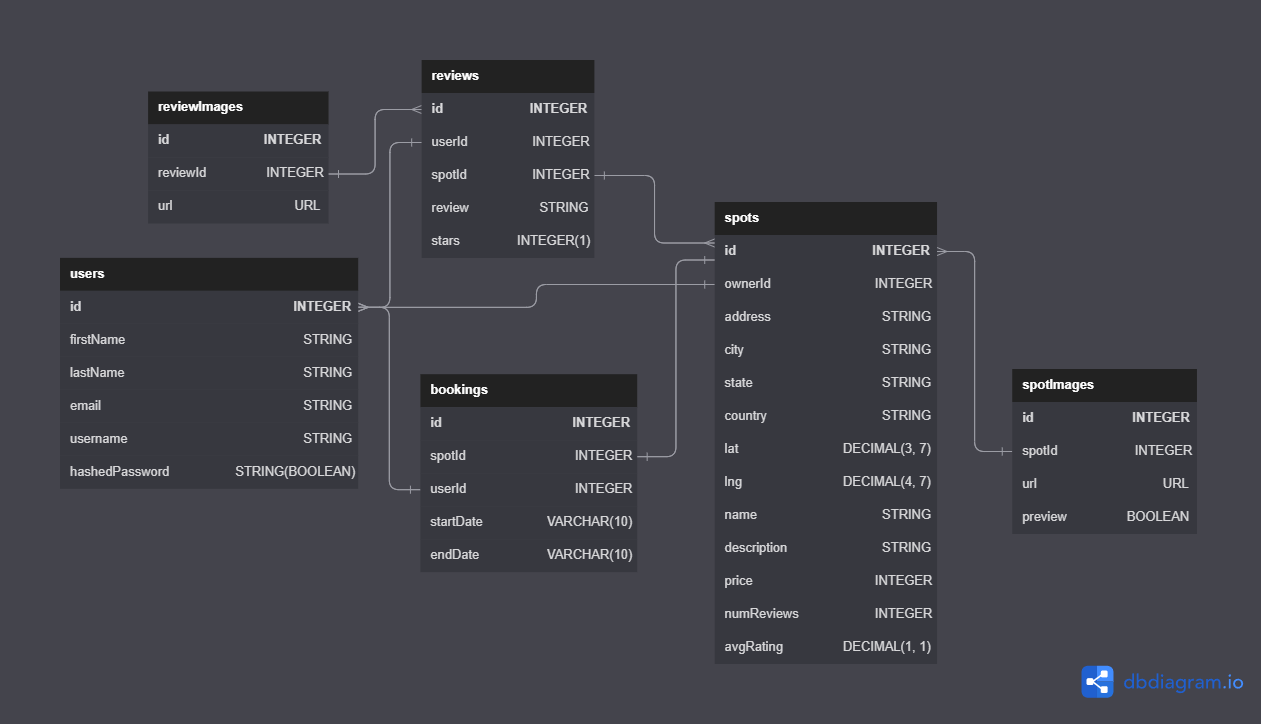
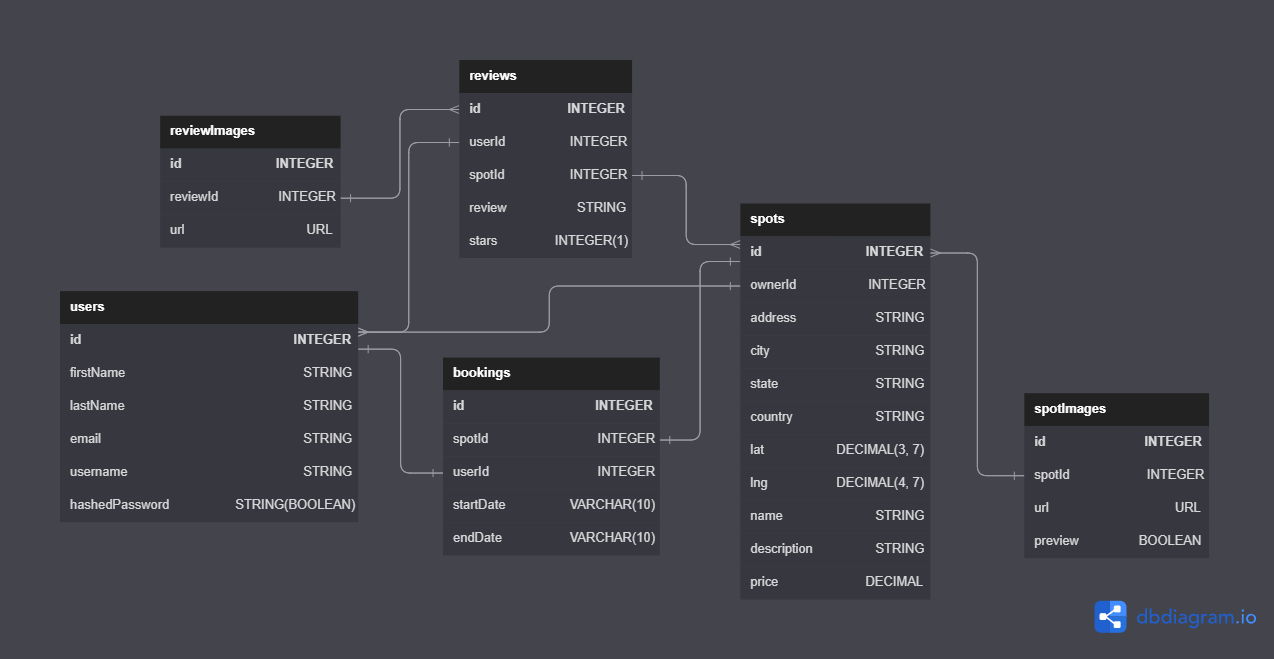
get all spots almost done

diff --git a/backend/routes/api/session.js b/backend/routes/api/session.js
@@ -21,56 +21,49 @@ const validateLogin = [
   ];  
 
 //login
-router.post(
-    '/',
-    validateLogin,
-    async (req, res, next) => {
-      const { credential, password } = req.body;
+router.post('/', validateLogin, async (req, res, next) => {
+    const { credential, password } = req.body;
   
-      const user = await User.unscoped().findOne({
-        where: {
-          [Op.or]: {
-            username: credential,
-            email: credential
+    const user = await User.unscoped().findOne({
+      where: {
+        [Op.or]: {
+          username: credential,
+          email: credential
           }
-        }
-      });
-  
-      if (!user || !bcrypt.compareSync(password, user.hashedPassword.toString())) {
-        const err = new Error('Login failed');
-        err.status = 401;
-        err.title = 'Login failed';
-        err.errors = { credential: 'The provided credentials were invalid.' };
-        return next(err);
       }
-  
-      const safeUser = {
-        id: user.id,
-        email: user.email,
-        username: user.username,
-      };
-  
-      await setTokenCookie(res, safeUser);
-  
-      return res.json({
-        user: safeUser
-      });
+    });
+ 
+    if (!user || !bcrypt.compareSync(password, user.hashedPassword.toString())) {
+      const err = new Error('Login failed');
+      err.status = 401;
+      err.title = 'Login failed';
+      err.errors = { credential: 'The provided credentials were invalid.' };
+      return next(err);
     }
-  );  
+  
+    const safeUser = {
+      id: user.id,
+      email: user.email,
+      username: user.username,
+    };
+  
+    await setTokenCookie(res, safeUser);
+  
+    return res.json({
+      user: safeUser
+    });
+  }
+);  
 
 //logout
-router.delete(
-    '/',
-    (_req, res) => {
+router.delete('/', (_req, res) => {
         res.clearCookie('token');
         return res.json({ message: 'success' });
     }
 );
 
 //restore session user
-router.get(
-    '/',
-    (req, res) => {
+router.get('/', (req, res) => {
         const { user } = req;
         if (user) {
             const safeUser = {

diff --git a/backend/db/seeders/20230419201333-demo-spot.js b/backend/db/seeders/20230419201333-demo-spot.js
@@ -1,0 +1,58 @@
+'use strict';
+
+let options = {};
+if (process.env.NODE_ENV === 'production') {
+  options.schema = process.env.SCHEMA;
+}
+
+/** @type {import('sequelize-cli').Migration} */
+module.exports = {
+  async up (queryInterface, Sequelize) {
+    options.tableName = 'Spots';
+    return queryInterface.bulkInsert(options, [
+      {
+        ownerId: 1,
+        address: '12345 N 1st Street',
+        city: 'Los Angeles',
+        state: 'California',
+        country: 'United States',
+        lat: 12.3456789,
+        lng: -1.2345678,
+        name: 'Place 1',
+        description: 'It exists',
+        price: 100.78
+      },
+      {
+        ownerId: 1,
+        address: '54321 S 9th Street',
+        city: 'New York City',
+        state: 'New York',
+        country: 'United States',
+        lat: -98.7654321,
+        lng: 8.7654321,
+        name: '9 Place',
+        description: 'It exists but backwards',
+        price: 870.01
+      },
+      {
+        ownerId: 3,
+        address: 'Isle O\' Hags',
+        city: 'Spiral Mountain',
+        country: 'Dream: Land Of Giants',
+        lat: 54.9383471,
+        lng: 0.0000000,
+        name: 'Banjo and Kazooie\'s House',
+        description: 'The home of Banjo and Kazooie as depicted in almost every game',
+        price: 999.99
+      },
+    ], {})
+  },
+
+  async down (queryInterface, Sequelize) {
+    options.tableName = 'Spots';
+    const Op = Sequelize.Op;
+    return queryInterface.bulkDelete(options, {
+      name: { [Op.in]: ['Place 1', '9 Place', 'Banjo and Kazooie\'s House'] }
+    }, {});
+  }
+};

diff --git a/backend/db/seeders/20230419210920-demo-review.js b/backend/db/seeders/20230419210920-demo-review.js
@@ -1,0 +1,61 @@
+'use strict';
+
+let options = {};
+if (process.env.NODE_ENV === 'production') {
+  options.schema = process.env.SCHEMA;
+}
+
+/** @type {import('sequelize-cli').Migration} */
+module.exports = {
+  async up (queryInterface, Sequelize) {
+    options.tableName = 'Reviews';
+    return queryInterface.bulkInsert(options, [
+      {
+        userId: 2,
+        spotId: 1,
+        review: 'Its not backwards so I dont like it',
+        stars: 2
+      },
+      {
+        userId: 3,
+        spotId: 1,
+        review: 'Not silly enough but it was still very nice',
+        stars: 4
+      },
+
+      {
+        userId: 2,
+        spotId: 2,
+        review: 'Absolutely perfect 5 stars',
+        stars: 4
+      },
+      {
+        userId: 3,
+        spotId: 2,
+        review: 'bing bong',
+        stars: 3
+      },
+
+      {
+        userId: 1,
+        spotId: 3,
+        review: 'I loved the banjo games',
+        stars: 5
+      },
+      {
+        userId: 1,
+        spotId: 3,
+        review: 'Kinda sucked, was attacked by some witch or something trying to steal the puzzle pieces I was working on in my free time',
+        stars: 5
+      }
+    ], {});
+  },
+
+  async down (queryInterface, Sequelize) {
+    options.tableName = 'Reviews';
+    const Op = Sequelize.Op;
+    return queryInterface.bulkDelete(options, {
+      spotId: { [Op.in]: ['1', '2', '3'] }
+    }, {});
+  }
+};

diff --git a/backend/db/seeders/20230419212113-demo-spot-image.js b/backend/db/seeders/20230419212113-demo-spot-image.js
@@ -1,0 +1,39 @@
+'use strict';
+
+let options = {};
+if (process.env.NODE_ENV === 'production') {
+  options.schema = process.env.SCHEMA;
+}
+
+/** @type {import('sequelize-cli').Migration} */
+module.exports = {
+  async up (queryInterface, Sequelize) {
+    options.tableName = 'SpotImages';
+    return queryInterface.bulkInsert(options, [
+      {
+        spotId: 1,
+        url: 'https://www.google.com/images/branding/googlelogo/2x/googlelogo_light_color_92x30dp.png',
+        preview: true
+      },
+      {
+        spotId: 2,
+        url: 'https://cdn.yep.com/en/assets/static/media/logo-light.b24bd7f574d770d73c99080ca0cfaf2d.svg',
+        preview: true
+      },
+      {
+        spotId: 3,
+        url: 'https://s.yimg.com/rz/p/yahoo_homepage_en-US_s_f_p_bestfit_homepage_2x.png',
+        preview: true
+      },
+    ], {})
+  },
+
+  async down (queryInterface, Sequelize) {
+    options.tableName = 'SpotImages';
+    const Op = Sequelize.Op;
+    return queryInterface.bulkDelete(options, {
+      id: { [Op.in]: ['1', '2', '3'] }
+    }, {});
+  }
+};
+

diff --git a/backend/routes/api/spots.js b/backend/routes/api/spots.js
@@ -1,0 +1,35 @@
+const express = require('express');
+const bcrypt = require('bcryptjs');
+const { check } = require('express-validator');
+const sequelize = require('sequelize');
+
+const { setTokenCookie, requireAuth } = require('../../utils/auth');
+const { Spot, Review, SpotImage } = require('../../db/models');
+const { handleValidationErrors } = require('../../utils/validation');
+
+const { Op } = require('sequelize');
+
+const router = express.Router();
+
+router.get('/', async (req, res) => {
+    const spots = await Spot.findAll({
+        attributes: {
+            exclude: 'UserId',
+            include: [[sequelize.fn('AVG', sequelize.col('stars')), 'avgRating'], 'Review']
+        },
+        include: [
+            // {
+            //     model: Review,
+            //     attributes: [sequelize.fn('AVG', sequelize.col('stars')), 'Review']
+            // },
+            {
+                model: SpotImage,
+                attributes: ['url']
+            }
+        ]
+    });
+
+    res.json(spots);
+});
+
+module.exports = router;

diff --git a/backend/db/models/spot.js b/backend/db/models/spot.js
@@ -2,6 +2,7 @@
 const {
   Model
 } = require('sequelize');
+
 module.exports = (sequelize, DataTypes) => {
   class Spot extends Model {
     /**
@@ -10,7 +11,10 @@ module.exports = (sequelize, DataTypes) => {
      * The `models/index` file will call this method automatically.
      */
     static associate(models) {
-      // define association here
+      Spot.hasMany(models.Review);
+      Spot.hasMany(models.SpotImage);
+      Spot.hasOne(models.Booking);
+      Spot.belongsTo(models.User);
     }
   }
   Spot.init({

diff --git a/backend/routes/api/index.js b/backend/routes/api/index.js
@@ -1,6 +1,7 @@
 // backend/routes/api/index.js
 const router = require('express').Router();
 const sessionRouter = require('./session.js');
+const spotsRouter = require('./spots.js');
 const usersRouter = require('./users.js');
 const { restoreUser } = require("../../utils/auth.js");
 
@@ -10,6 +11,8 @@ const { restoreUser } = require("../../utils/auth.js");
 router.use(restoreUser);
 
 router.use('/session', sessionRouter);
+
+router.use('/spots', spotsRouter);
 
 router.use('/users', usersRouter);
 

diff --git a/backend/db/models/review.js b/backend/db/models/review.js
@@ -10,7 +10,9 @@ module.exports = (sequelize, DataTypes) => {
      * The `models/index` file will call this method automatically.
      */
     static associate(models) {
-      // define association here
+      Review.belongsTo(models.Spot);
+      Review.belongsTo(models.User);
+      Review.hasMany(models.ReviewImage);
     }
   }
   Review.init({

diff --git a/backend/db/models/user.js b/backend/db/models/user.js
@@ -8,7 +8,9 @@ module.exports = (sequelize, DataTypes) => {
      * The `models/index` file will call this method automatically.
      */
     static associate(models) {
-      // define association here
+      User.hasMany(models.Spot);
+      User.hasMany(models.Review);
+      User.hasOne(models.Booking);
     }
   }
   User.init({

diff --git a/backend/db/models/booking.js b/backend/db/models/booking.js
@@ -10,7 +10,8 @@ module.exports = (sequelize, DataTypes) => {
      * The `models/index` file will call this method automatically.
      */
     static associate(models) {
-      // define association here
+      Booking.belongsTo(models.Spot);
+      Booking.belongsTo(models.User);
     }
   }
   Booking.init({

diff --git a/backend/db/models/reviewimage.js b/backend/db/models/reviewimage.js
@@ -10,7 +10,7 @@ module.exports = (sequelize, DataTypes) => {
      * The `models/index` file will call this method automatically.
      */
     static associate(models) {
-      // define association here
+      ReviewImage.belongsTo(models.Review);
     }
   }
   ReviewImage.init({

diff --git a/backend/db/models/spotimage.js b/backend/db/models/spotimage.js
@@ -10,7 +10,7 @@ module.exports = (sequelize, DataTypes) => {
      * The `models/index` file will call this method automatically.
      */
     static associate(models) {
-      // define association here
+      SpotImage.belongsTo(models.Spot);
     }
   }
   SpotImage.init({
